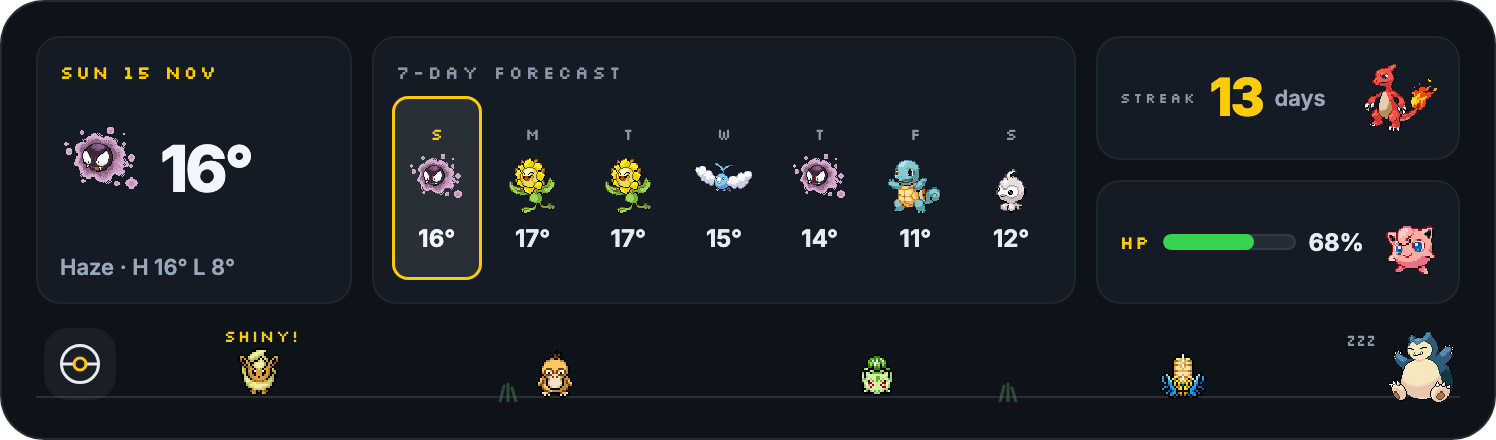
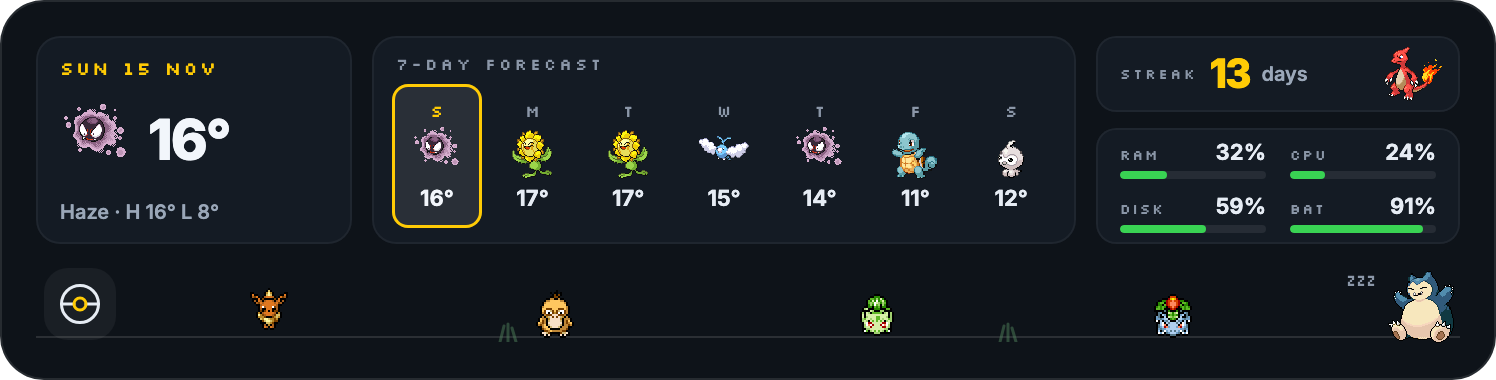
Medium: shorter cards and labeled RAM, CPU, disk and battery stats

diff --git a/widget.html b/widget.html
@@ -108,41 +108,71 @@
   <div class="routeSlot"></div>
 </div>
 
-<!-- ===================== MEDIUM 748×220: today, 7-day forecast, streak + HP, open route ===================== -->
-<div class="card" id="md" style="width: 748px; height: 220px; padding: 18px 18px 14px; border-radius: 22px; gap: 6px; box-shadow: inset 0 0 0 1px rgba(255,255,255,0.1)">
-  <div style="height: 134px; flex: none; display: flex; gap: 10px">
+<!-- ===================== MEDIUM 748×190: today, 7-day forecast, streak + system stats, open route ===================== -->
+<div class="card" id="md" style="width: 748px; height: 190px; padding: 18px 18px 14px; border-radius: 22px; gap: 6px; box-shadow: inset 0 0 0 1px rgba(255,255,255,0.1)">
+  <div style="height: 104px; flex: none; display: flex; gap: 10px">
 
     <!-- Today -->
-    <div class="panel" style="width: 158px; flex: none; border-radius: 12px; padding: 12px; display: flex; flex-direction: column; justify-content: space-between">
+    <div class="panel" style="width: 158px; flex: none; border-radius: 12px; padding: 10px 12px; display: flex; flex-direction: column; justify-content: space-between">
       <span class="px" data-k="dateShort" data-accent="color" style="font-size: 9px; letter-spacing: 1.4px">&nbsp;</span>
       <div style="display: flex; align-items: center; gap: 8px">
-        <img data-k="wxSprite" alt="" style="width: 42px; height: 42px; object-fit: contain; flex: none">
-        <span data-k="wxTemp" style="font-size: 32px; font-weight: 800; letter-spacing: -1.5px; color: #F2F6FB; line-height: 1">--°</span>
+        <img data-k="wxSprite" alt="" style="width: 36px; height: 36px; object-fit: contain; flex: none">
+        <span data-k="wxTemp" style="font-size: 28px; font-weight: 800; letter-spacing: -1px; color: #F2F6FB; line-height: 1">--°</span>
       </div>
-      <span data-k="wxLine" style="font-size: 11px; font-weight: 600; color: #9AA7B8; white-space: nowrap; overflow: hidden; text-overflow: ellipsis">&nbsp;</span>
+      <span data-k="wxLine" style="font-size: 10px; font-weight: 600; color: #9AA7B8; white-space: nowrap; overflow: hidden; text-overflow: ellipsis">&nbsp;</span>
     </div>
 
     <!-- 7-day forecast, today first -->
-    <div class="panel" style="width: 352px; flex: none; border-radius: 12px; padding: 12px 10px; display: flex; flex-direction: column; gap: 6px">
-      <span class="label" style="font-size: 9px; letter-spacing: 1.8px; padding-left: 2px">7-DAY FORECAST</span>
+    <div class="panel" style="width: 352px; flex: none; border-radius: 12px; padding: 9px 10px 8px; display: flex; flex-direction: column; gap: 5px">
+      <span class="label" style="font-size: 8px; letter-spacing: 1.8px; padding-left: 2px">7-DAY FORECAST</span>
       <div id="next7" style="flex: 1 1 auto; display: grid; grid-template-columns: repeat(7, minmax(0, 1fr)); gap: 3px; align-items: stretch"></div>
     </div>
 
-    <!-- Streak + HP -->
-    <div style="flex: 1 1 auto; min-width: 0; display: flex; flex-direction: column; gap: 10px">
-      <div class="panel" style="flex: 1 1 0; border-radius: 12px; padding: 0 8px 0 12px; display: flex; align-items: center; gap: 6px">
+    <!-- Streak + system stats -->
+    <div style="flex: 1 1 auto; min-width: 0; display: flex; flex-direction: column; gap: 8px">
+      <div class="panel" style="height: 38px; flex: none; border-radius: 10px; padding: 0 6px 0 12px; display: flex; align-items: center; gap: 6px">
         <span class="label" style="font-size: 7px; letter-spacing: 1.5px">STREAK</span>
-        <span data-k="streak" data-accent="color" style="font-size: 26px; font-weight: 800; letter-spacing: -1px; line-height: 1">0</span>
-        <span data-k="streakUnit" style="font-size: 11px; font-weight: 600; color: #9AA7B8">days</span>
-        <img data-k="streakSprite" alt="" style="width: 40px; height: 40px; object-fit: contain; margin-left: auto">
+        <span data-k="streak" data-accent="color" style="font-size: 20px; font-weight: 800; letter-spacing: -1px; line-height: 1">0</span>
+        <span data-k="streakUnit" style="font-size: 10px; font-weight: 600; color: #9AA7B8">days</span>
+        <img data-k="streakSprite" alt="" style="width: 32px; height: 32px; object-fit: contain; margin-left: auto">
       </div>
-      <div class="panel" style="flex: 1 1 0; border-radius: 12px; padding: 0 8px 0 12px; display: flex; align-items: center; gap: 6px">
-        <span class="px" data-accent="color" style="font-size: 9px; letter-spacing: 1px; flex: none">HP</span>
-        <span style="flex: 1 1 auto; min-width: 0; display: block; height: 8px; border-radius: 5px; background: rgba(255,255,255,0.08); box-shadow: inset 0 0 0 1px rgba(255,255,255,0.07); overflow: hidden">
-          <span data-k="hpBar" style="display: block; height: 8px; border-radius: 5px; width: 0; transition: width .6s ease, background-color .6s ease"></span>
-        </span>
-        <span data-k="hpPct" style="font-size: 12px; font-weight: 700; color: #E6ECF4; flex: none">--</span>
-        <img data-k="vitalSprite" alt="" style="width: 34px; height: 34px; object-fit: contain; flex: none">
+      <div class="panel" style="flex: 1 1 auto; min-height: 0; border-radius: 10px; padding: 8px 12px; display: grid; grid-template-columns: minmax(0, 1fr) minmax(0, 1fr); column-gap: 12px; row-gap: 7px; align-content: center">
+        <div style="display: flex; flex-direction: column; gap: 3px; min-width: 0">
+          <span style="display: flex; justify-content: space-between; align-items: baseline; gap: 4px">
+            <span class="px" style="font-size: 7px; letter-spacing: 1px; color: #8B97A8">RAM</span>
+            <span data-k="ramPct" style="font-size: 11px; font-weight: 700; color: #E6ECF4">--</span>
+          </span>
+          <span style="display: block; height: 4px; border-radius: 2px; background: rgba(255,255,255,0.08); overflow: hidden">
+            <span data-k="ramBar" style="display: block; height: 4px; width: 0; border-radius: 2px; transition: width .6s ease, background-color .6s ease"></span>
+          </span>
+        </div>
+        <div style="display: flex; flex-direction: column; gap: 3px; min-width: 0">
+          <span style="display: flex; justify-content: space-between; align-items: baseline; gap: 4px">
+            <span class="px" style="font-size: 7px; letter-spacing: 1px; color: #8B97A8">CPU</span>
+            <span data-k="cpuPct" style="font-size: 11px; font-weight: 700; color: #E6ECF4">--</span>
+          </span>
+          <span style="display: block; height: 4px; border-radius: 2px; background: rgba(255,255,255,0.08); overflow: hidden">
+            <span data-k="cpuBar" style="display: block; height: 4px; width: 0; border-radius: 2px; transition: width .6s ease, background-color .6s ease"></span>
+          </span>
+        </div>
+        <div style="display: flex; flex-direction: column; gap: 3px; min-width: 0">
+          <span style="display: flex; justify-content: space-between; align-items: baseline; gap: 4px">
+            <span class="px" style="font-size: 7px; letter-spacing: 1px; color: #8B97A8">DISK</span>
+            <span data-k="diskPct" style="font-size: 11px; font-weight: 700; color: #E6ECF4">--</span>
+          </span>
+          <span style="display: block; height: 4px; border-radius: 2px; background: rgba(255,255,255,0.08); overflow: hidden">
+            <span data-k="diskBar" style="display: block; height: 4px; width: 0; border-radius: 2px; transition: width .6s ease, background-color .6s ease"></span>
+          </span>
+        </div>
+        <div style="display: flex; flex-direction: column; gap: 3px; min-width: 0">
+          <span style="display: flex; justify-content: space-between; align-items: baseline; gap: 4px">
+            <span class="px" style="font-size: 7px; letter-spacing: 1px; color: #8B97A8">BAT</span>
+            <span data-k="batPct" style="font-size: 11px; font-weight: 700; color: #E6ECF4">--</span>
+          </span>
+          <span style="display: block; height: 4px; border-radius: 2px; background: rgba(255,255,255,0.08); overflow: hidden">
+            <span data-k="batBar" style="display: block; height: 4px; width: 0; border-radius: 2px; transition: width .6s ease, background-color .6s ease"></span>
+          </span>
+        </div>
       </div>
     </div>
   </div>
@@ -357,11 +387,11 @@
       var box = u.today
         ? 'background: rgba(255,255,255,0.09); box-shadow: inset 0 0 0 1.5px ' + a + ';'
         : 'background: transparent;';
-      return '<div style="display: flex; flex-direction: column; align-items: center; justify-content: center; gap: 5px; border-radius: 8px; ' + box + '">'
+      return '<div style="display: flex; flex-direction: column; align-items: center; justify-content: center; gap: 3px; border-radius: 8px; ' + box + '">'
         + '<span class="px" style="font-size: 8px; color: ' + (u.today ? a : '#8B97A8') + '">' + u.letter + '</span>'
-        + (w ? '<img src="' + gif(w.dex) + '" alt="' + w.name + '" style="width: 30px; height: 30px; object-fit: contain">'
-             : '<span style="width: 30px; height: 30px"></span>')
-        + '<span style="font-size: 12px; font-weight: 700; color: ' + (u.today ? '#F2F6FB' : '#E6ECF4') + '">' + (w ? w.hi + '°' : '–') + '</span>'
+        + (w ? '<img src="' + gif(w.dex) + '" alt="' + w.name + '" style="width: 26px; height: 26px; object-fit: contain">'
+             : '<span style="width: 26px; height: 26px"></span>')
+        + '<span style="font-size: 11px; font-weight: 700; color: ' + (u.today ? '#F2F6FB' : '#E6ECF4') + '">' + (w ? w.hi + '°' : '–') + '</span>'
         + '</div>';
     }).join('');
   }
@@ -412,6 +442,19 @@
     $('cpu').textContent = Math.round(s.cpu) + '%';
     $('disk').textContent = Math.round(s.disk) + '%';
     $('bat').textContent = s.battery == null ? 'AC' : s.battery + '%';
+
+    // Medium's stats card: RAM, CPU and disk as % used (bars warm up as they fill), battery as % charged.
+    var used = function (p) { return p < 60 ? '#39D353' : (p < 85 ? '#FFCB05' : '#E3350D'); };
+    var stat = function (key, pct, color, text) {
+      setText(key + 'Pct', text != null ? text : pct + '%');
+      all(key + 'Bar').forEach(function (b) { b.style.width = pct + '%'; b.style.backgroundColor = color; });
+    };
+    var ram = 100 - hp, cpu = Math.round(s.cpu), disk = Math.round(s.disk);
+    stat('ram', ram, used(ram));
+    stat('cpu', cpu, used(cpu));
+    stat('disk', disk, used(disk));
+    if (s.battery == null) { stat('bat', 100, '#5A6573', 'AC'); }
+    else { stat('bat', s.battery, s.battery > 40 ? '#39D353' : (s.battery > 15 ? '#FFCB05' : '#E3350D')); }
   }
 
   // ---------- Route: Pokémon walking with real walk-cycle sheets ----------

diff --git a/main.swift b/main.swift
@@ -24,7 +24,7 @@ struct Settings {
 
     static let sizes: [(key: String, title: String, size: NSSize)] = [
         ("large", "Large  (560 × 470)", NSSize(width: 560, height: 470)),
-        ("medium", "Medium  (748 × 220)", NSSize(width: 748, height: 220)),
+        ("medium", "Medium  (748 × 190)", NSSize(width: 748, height: 190)),
         ("small", "Small  (170 × 170)", NSSize(width: 170, height: 170)),
         ("mini", "Mini route  (320 × 64)", NSSize(width: 320, height: 64)),
     ]

diff --git a/README.md b/README.md
@@ -12,7 +12,7 @@ A hobby project: a native macOS app (Swift + WebKit) that pins a transparent win
 
 Switch between four sizes from the menu bar icon (**◎ → Size**).
 
-| Medium (748 × 220) |
+| Medium (748 × 190) |
 |---|
 | ![Medium widget](screenshots/medium.png) |
 
